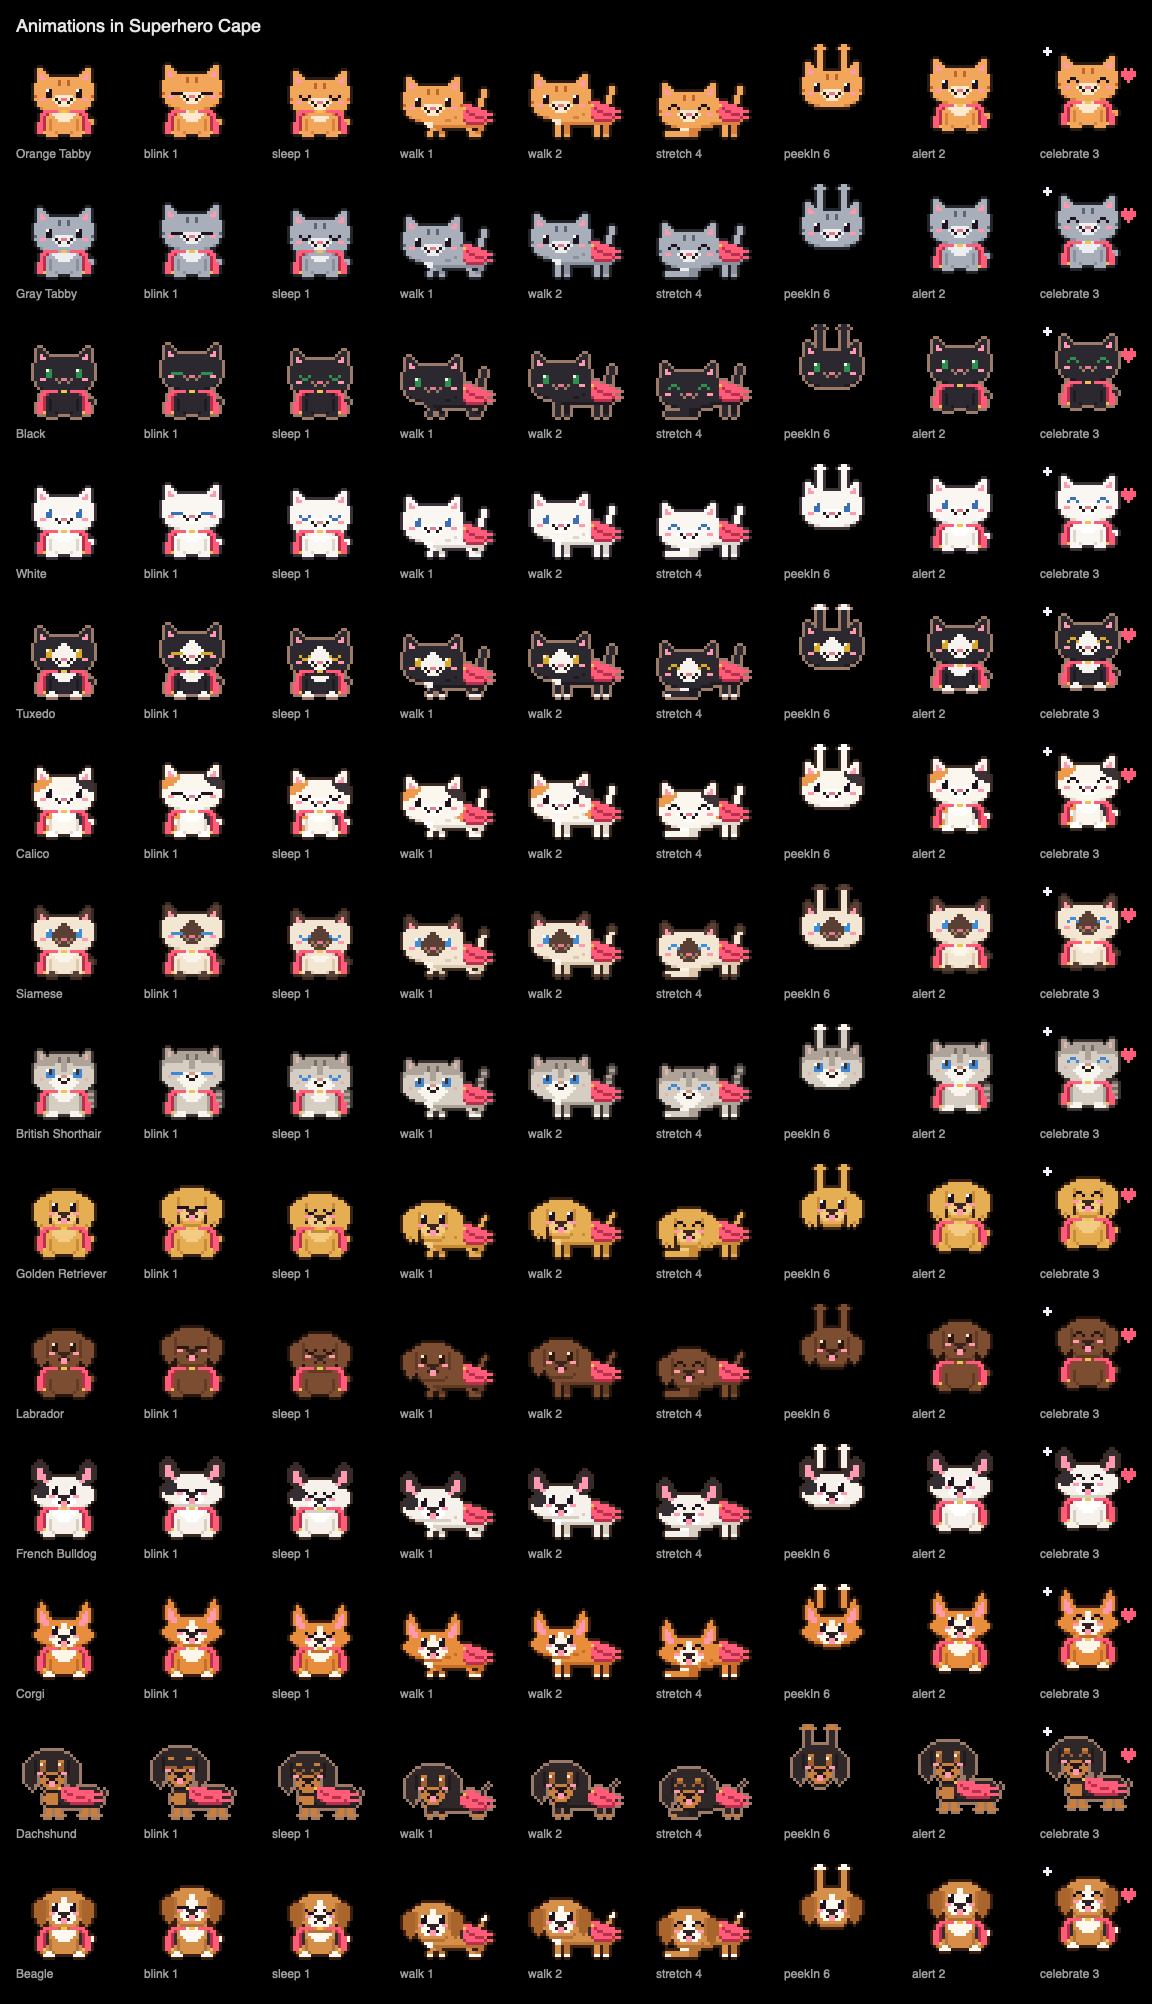
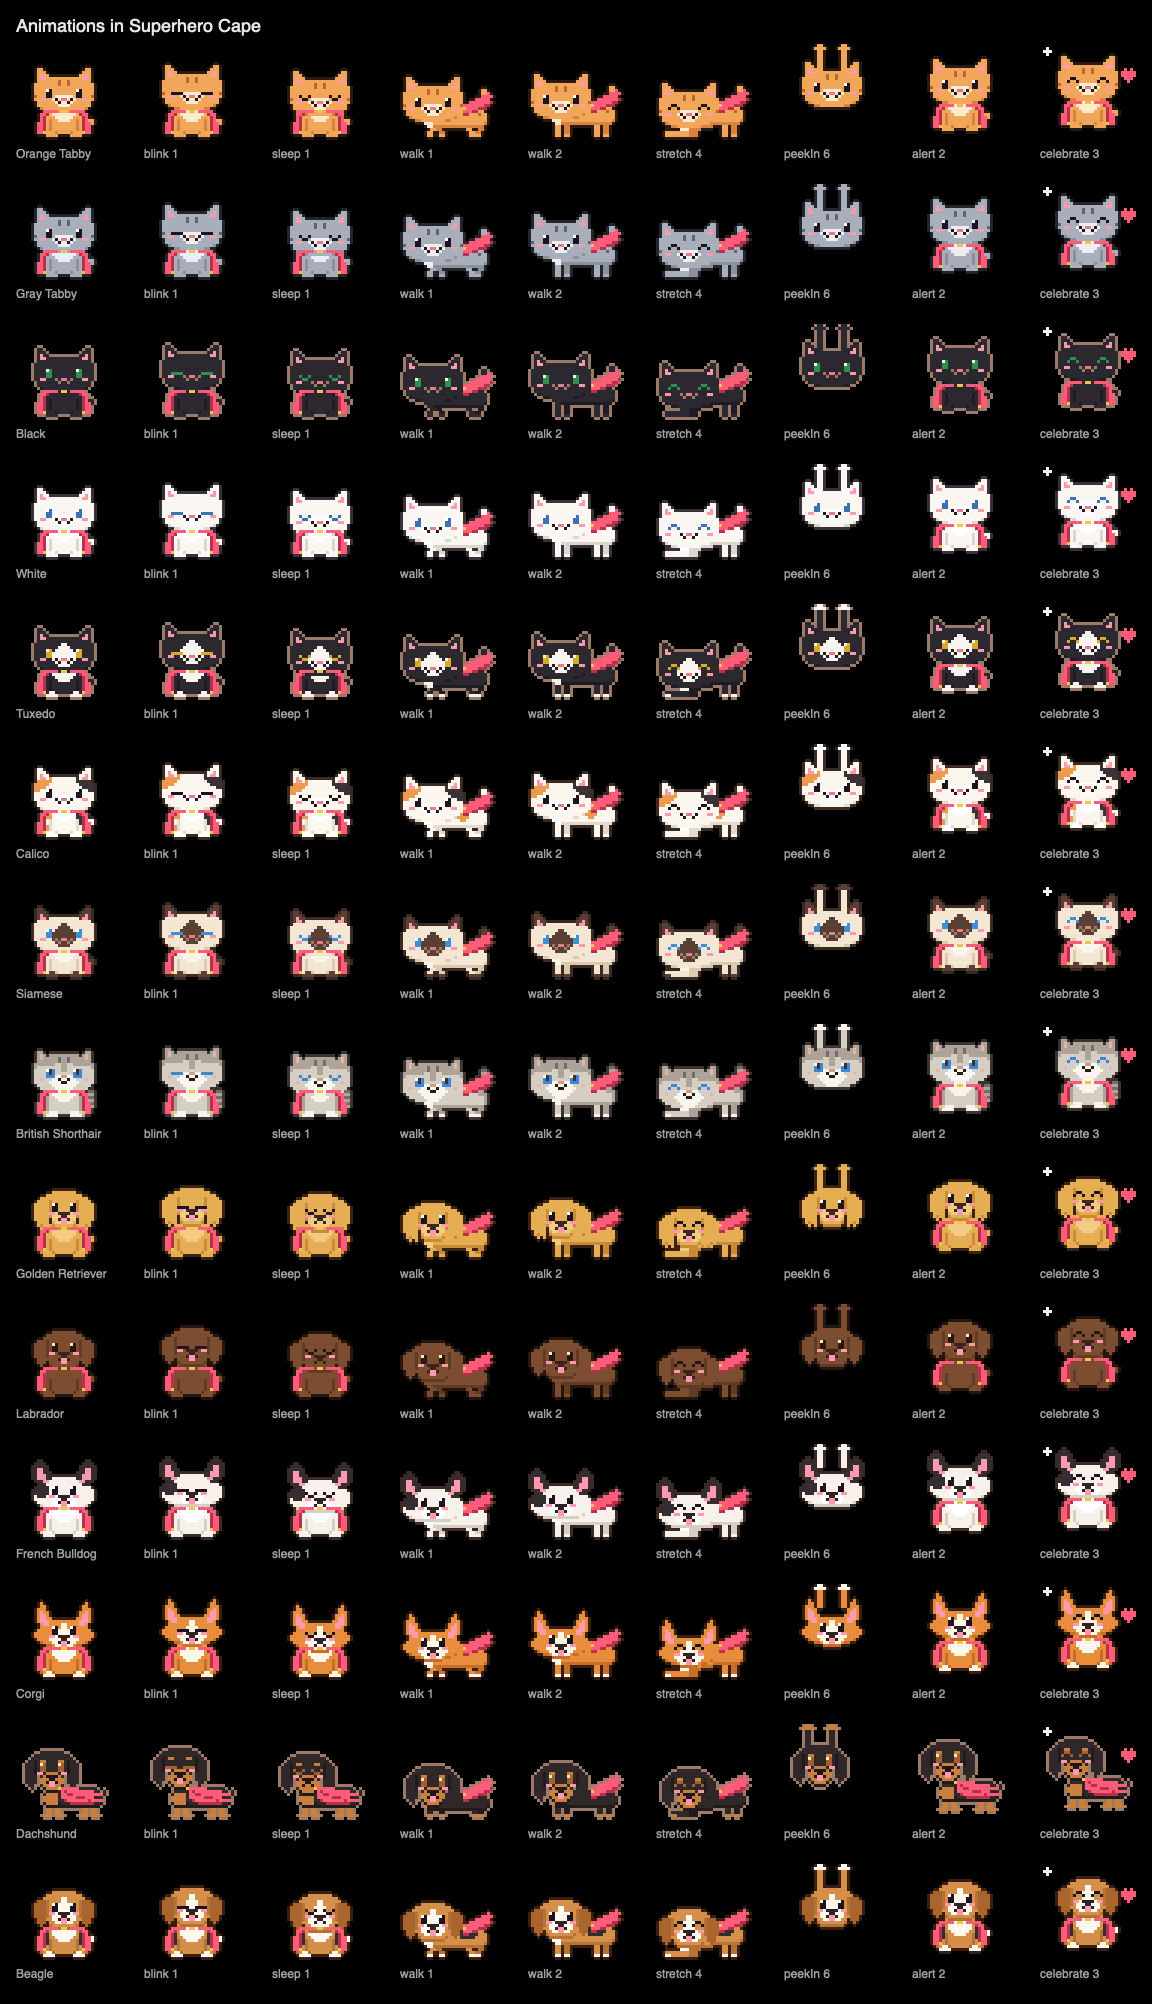
feat(pets): I redrew the Superhero Cape's walking art so it streams up and back from the collar like a cape in the wind instead of reading as a pink tuft on the rump, after an art review of the face and body contact sheets and the dachshund rows of every animation strip; build has zero warnings, all

diff --git a/Sources/TabbiKitCore/Pets/Art/CostumeArt.swift b/Sources/TabbiKitCore/Pets/Art/CostumeArt.swift
@@ -584,10 +584,15 @@ extension CostumeArt {
 
     /// A red cape fastened with a gold clasp at the collar. From the front it
     /// drapes over the shoulders and falls past both sides of the body, its
-    /// crimson lining showing; from the side it streams back over the rump
-    /// with a fold running into a swallowtail, so it never reads as a saddle.
+    /// crimson lining showing. Walking, it streams up and back from the
+    /// collar over the tail like a cape in the wind, since a cloth lying on
+    /// the short visible back reads as a saddle or a tuft at notch size.
     static let superheroCape = BodyItem(
         cat: SpriteGrid(art: """
+            ....................
+            ....................
+            ....................
+            ....................
             ....................
             ....................
             ....................
@@ -603,6 +608,10 @@ extension CostumeArt {
         dog: SpriteGrid(art: """
             ....................
             ....................
+            ....................
+            ....................
+            ....................
+            ....................
             ...HHHHH.YY.HHHHH...
             ..HHX..........XHH..
             ..HX............XH..
@@ -614,6 +623,10 @@ extension CostumeArt {
             """),
         longDog: SpriteGrid(art: """
             ........................
+            ........................
+            ........................
+            ........................
+            ........................
             ........YHHHHHH.........
             .........HXHHHHHHHHH....
             .........HHXXHHHHHHHHHH.
@@ -622,24 +635,26 @@ extension CostumeArt {
             ............XXXXXXXX....
             """),
         walk: SpriteGrid(art: """
-            ..............HHH.......
-            ..............YHHHHH....
-            ..............HXHHHHHH..
-            ..............HHXXHHHHHH
-            ..............HHHHXXXH..
-            ..............XHHHHHHXHH
-            ...............XXXXXX...
+            ......................H.
+            ....................HHHH
+            ..................HHHHH.
+            ................HHHHHHHX
+            ..............HHHHHHHXX.
+            ..............YHHHHXXX..
+            ..............HHHXX.....
+            ..............XX........
             """),
         walkLong: SpriteGrid(art: """
-            ...............HHH......
-            ..............YHHHHH....
-            .............HHXHHHHHH..
-            .............HHHHXXHHHHH
-            .............HHHHHHXXH..
-            ..............XHHHHHHXHH
-            ................XXXXXX..
+            ......................H.
+            ....................HHHH
+            ..................HHHHH.
+            ................HHHHHHHX
+            ..............HHHHHHHXX.
+            ..............YHHHHXXX..
+            ..............HHHXX.....
+            ..............XX........
             """),
-        rise: 1
+        rise: 5
     )
 
     /// A green dinosaur suit with a gold belly and gold spikes down the back.

diff --git a/docs/study/pets.md b/docs/study/pets.md
@@ -138,7 +138,7 @@ Accessories are drawn after the face and before the automatic outline, so hats g
 1. Add a case to `PetOutfit` or `PetAccessory` (with its `slot` and `displayName`), and give it a price in `PetItem.cost`, a Closet shelf in `PetItem.theme` (Study, Cozy, Fantasy, Seasonal or Silly) and the catalog `release` that adds it.
    Items from `PetItem.latestRelease` wear a "New" badge in the Closet until the user owns them.
 2. Draw it in `CostumeArt` using costume roles only: a `BodyItem` for each body family plus its two walking torsos, a `FaceItem` with its `eyeRow`, or a `HeadItem` with its `sitRow`.
-   A body item that sticks up out of the silhouette (the dinosaur's back spikes, the cape's collar) sets `rise`, the rows every one of its grids starts above the body's top row.
+   A body item that sticks up out of the silhouette (the dinosaur's back spikes, the cape streaming up behind a walking pet) sets `rise`, the rows every one of its grids starts above the body's top row.
 3. Map the case to its art in `PetComposer`.
    An outfit with a head part (the dinosaur hood) returns it from `outfitHood`; it is placed like a hat, moves with the head, and any hat is worn over it.
 4. Run `swift test` and review `contact-*.png` (every item on every breed) and `strip-<item>.png` (every breed through the key frames of every animation) from `PetGallery`.
